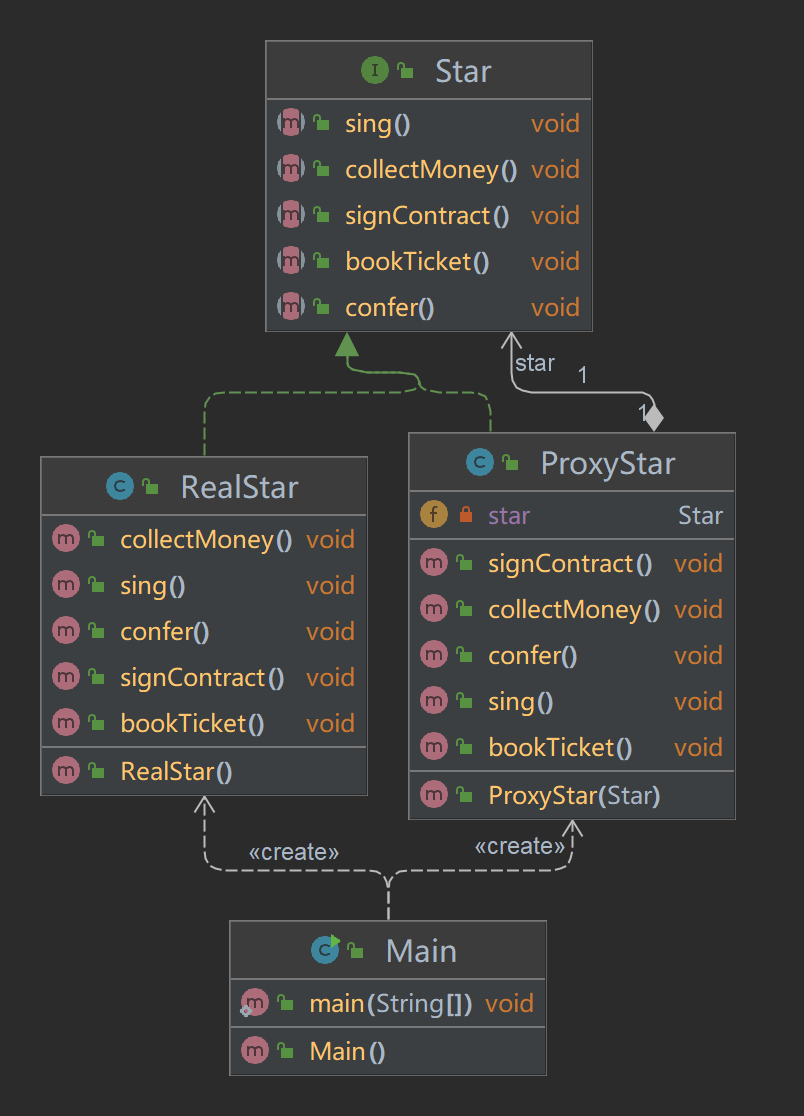
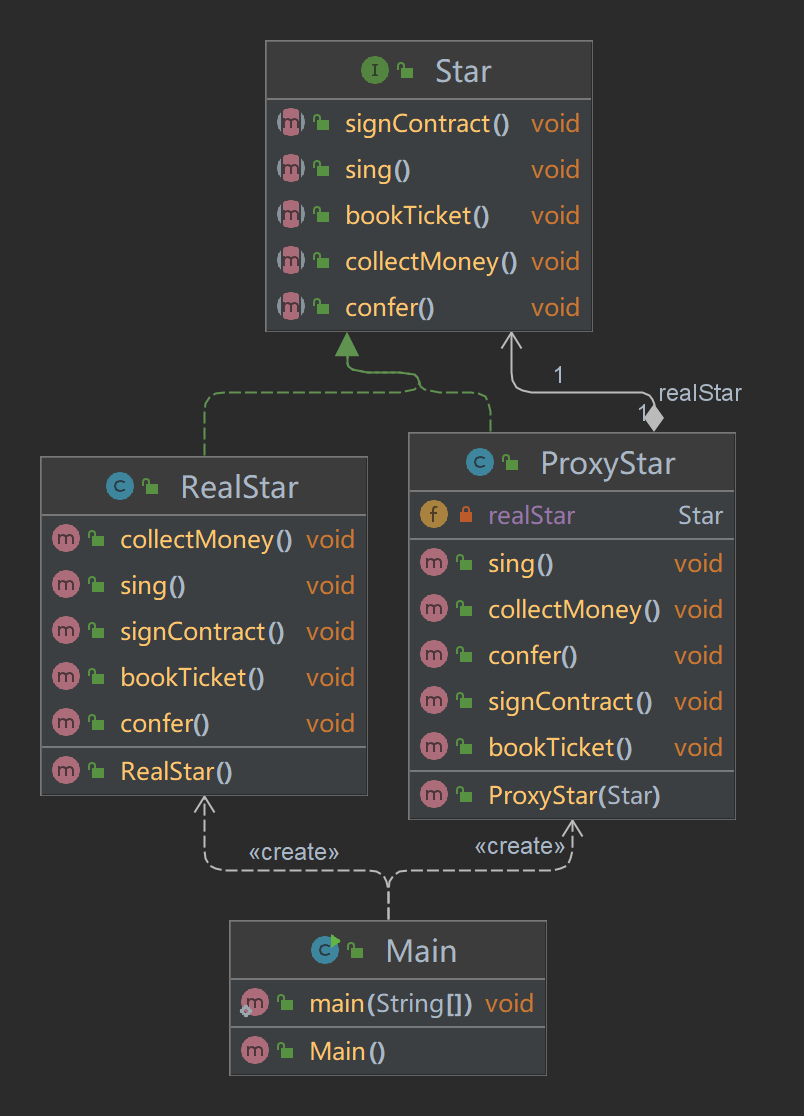
更新静态代理模式

diff --git a/src/main/java/com/pattern/structural_patterns/proxy/static_proxy/ProxyStar.java b/src/main/java/com/pattern/structural_patterns/proxy/static_proxy/ProxyStar.java
@@ -15,10 +15,10 @@ package com.pattern.structural_patterns.proxy.static_proxy;
  * 静态代理模式
  */
 public class ProxyStar implements Star {
-    private Star star;
+    private Star realStar;
 
-    public ProxyStar(Star star) {
-        this.star = star;
+    public ProxyStar(Star realStar) {
+        this.realStar = realStar;
     }
 
     @Override
@@ -38,7 +38,7 @@ public class ProxyStar implements Star {
 
     @Override
     public void sing() {
-        star.sing();
+        realStar.sing();
     }
 
     @Override
